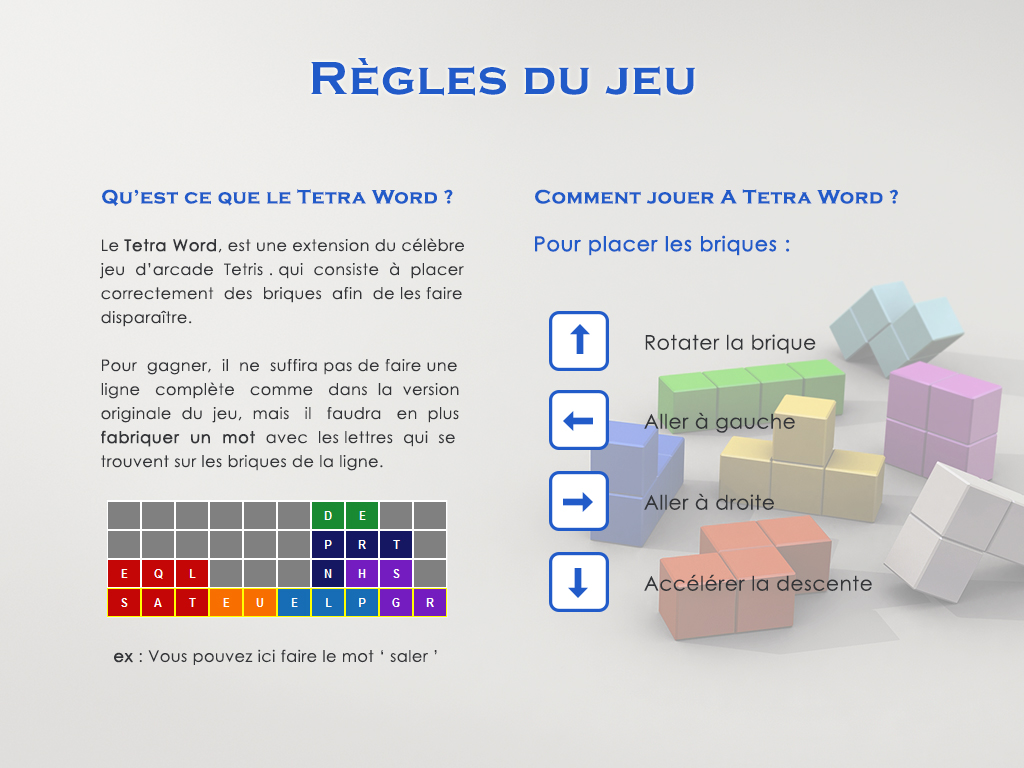
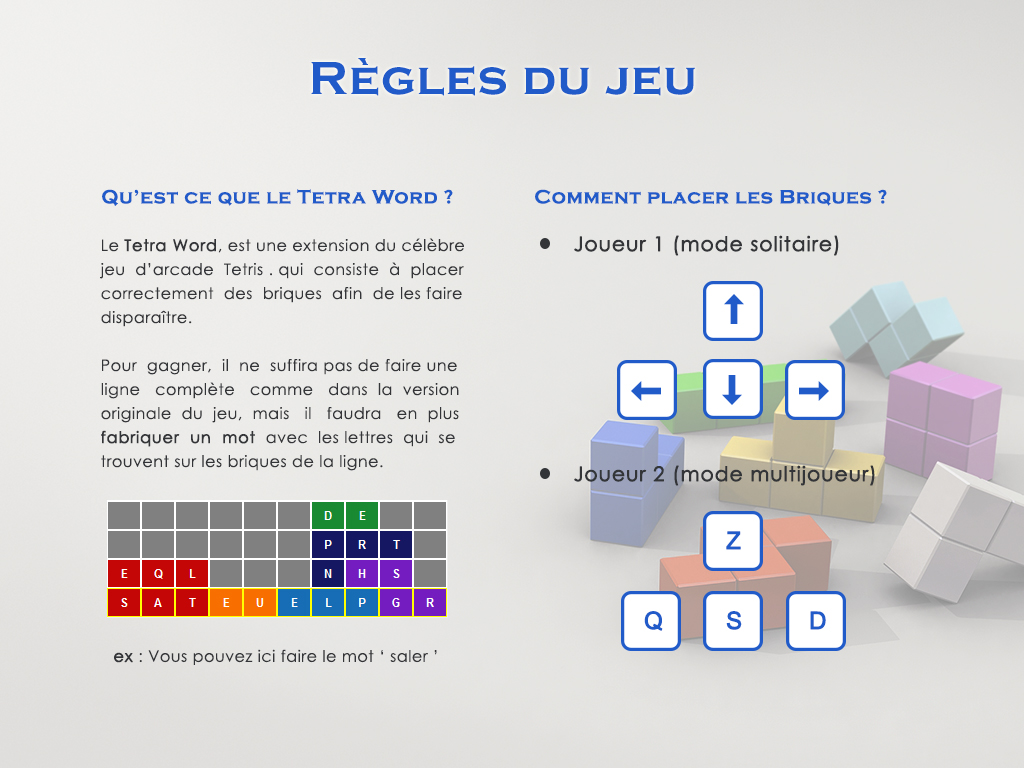
Don't remember

Changed region(s): [[0.5312, 0.3125, 0.8438, 0.875], [0.625, 0.25, 0.875, 0.2812]]

diff --git a/src/fr/univ/tetraword/MainGame.java b/src/fr/univ/tetraword/MainGame.java
@@ -71,7 +71,7 @@ public class MainGame extends JFrame {
     }
     
     public void secondReglesActionPerformed(java.awt.event.ActionEvent evt) throws IOException{                                         
-        //secondRegles();
+        secondRegles();
     }
     
     public void chargerActionPerformed(java.awt.event.ActionEvent evt) throws IOException{                                         
@@ -383,6 +383,79 @@ public class MainGame extends JFrame {
 
                 }
             });
+            
+            javax.swing.GroupLayout jPanel1Layout = new javax.swing.GroupLayout(panel);
+                panel.setLayout(jPanel1Layout);
+                jPanel1Layout.setHorizontalGroup(
+                    jPanel1Layout.createParallelGroup(javax.swing.GroupLayout.Alignment.LEADING)
+                    .addGroup(jPanel1Layout.createSequentialGroup()
+                        .addGap(41, 41, 41)
+                        .addComponent(buttonRetour, javax.swing.GroupLayout.PREFERRED_SIZE, 100, javax.swing.GroupLayout.PREFERRED_SIZE)
+                        .addPreferredGap(javax.swing.LayoutStyle.ComponentPlacement.RELATED, 751, Short.MAX_VALUE)
+                        .addComponent(buttonSuivant, javax.swing.GroupLayout.PREFERRED_SIZE, 100, javax.swing.GroupLayout.PREFERRED_SIZE)
+                        .addGap(42, 42, 42))
+                );
+                jPanel1Layout.setVerticalGroup(
+                    jPanel1Layout.createParallelGroup(javax.swing.GroupLayout.Alignment.LEADING)
+                    .addGroup(jPanel1Layout.createSequentialGroup()
+                        .addGap(51, 51, 51)
+                        .addGroup(jPanel1Layout.createParallelGroup(javax.swing.GroupLayout.Alignment.LEADING)
+                            .addComponent(buttonRetour, javax.swing.GroupLayout.PREFERRED_SIZE, 34, javax.swing.GroupLayout.PREFERRED_SIZE)
+                            .addComponent(buttonSuivant, javax.swing.GroupLayout.DEFAULT_SIZE, javax.swing.GroupLayout.DEFAULT_SIZE, Short.MAX_VALUE))
+                        .addContainerGap(683, Short.MAX_VALUE))
+                );
+
+            this.pack();
+            this.setVisible(true);
+            this.setDefaultCloseOperation(JFrame.EXIT_ON_CLOSE);
+    }
+    
+    public void secondRegles() throws IOException{
+            // Création de la fenêtre
+            this.setTitle("Règles du Tetra Word (2)");
+            this.setPreferredSize(new Dimension(1024,768));
+                        
+            // Arrière plan
+            JPanel panel = setBackgroundImage(this, new File("src/fr/univ/graphicinterface/regles2.jpg"));
+            panel.setMaximumSize(new Dimension(1024, 768));
+            panel.setMinimumSize(new Dimension(600, 400));
+            panel.setPreferredSize(new Dimension(1024, 768));
+            
+            // Fonts
+            Font century = new Font("Century Gothic",0,18);
+                       
+            // Boutons
+            JWelcomeButton buttonRetour = new JWelcomeButton("Précédent");
+            buttonRetour.setFont(century);
+            buttonRetour.setForeground(Color.WHITE);
+            buttonRetour.setFocusPainted(false);
+            buttonRetour.addActionListener(new java.awt.event.ActionListener() {
+                @Override
+                public void actionPerformed(java.awt.event.ActionEvent evt) {
+                    try {
+                        firstReglesActionPerformed(evt);
+                    } catch (IOException ex) {
+                        Logger.getLogger(MainGame.class.getName()).log(Level.SEVERE, null, ex);
+                    }
+
+                }
+            });
+            
+            JWelcomeButton buttonSuivant = new JWelcomeButton("Suivant");
+            buttonSuivant.setFont(century);
+            buttonSuivant.setForeground(Color.WHITE);
+            buttonSuivant.setFocusPainted(false);
+            /*buttonSuivant.addActionListener(new java.awt.event.ActionListener() {
+                @Override
+                public void actionPerformed(java.awt.event.ActionEvent evt) {
+                    try {
+                        secondReglesActionPerformed(evt);
+                    } catch (IOException ex) {
+                        Logger.getLogger(MainGame.class.getName()).log(Level.SEVERE, null, ex);
+                    }
+
+                }
+            });*/
             
             javax.swing.GroupLayout jPanel1Layout = new javax.swing.GroupLayout(panel);
                 panel.setLayout(jPanel1Layout);
